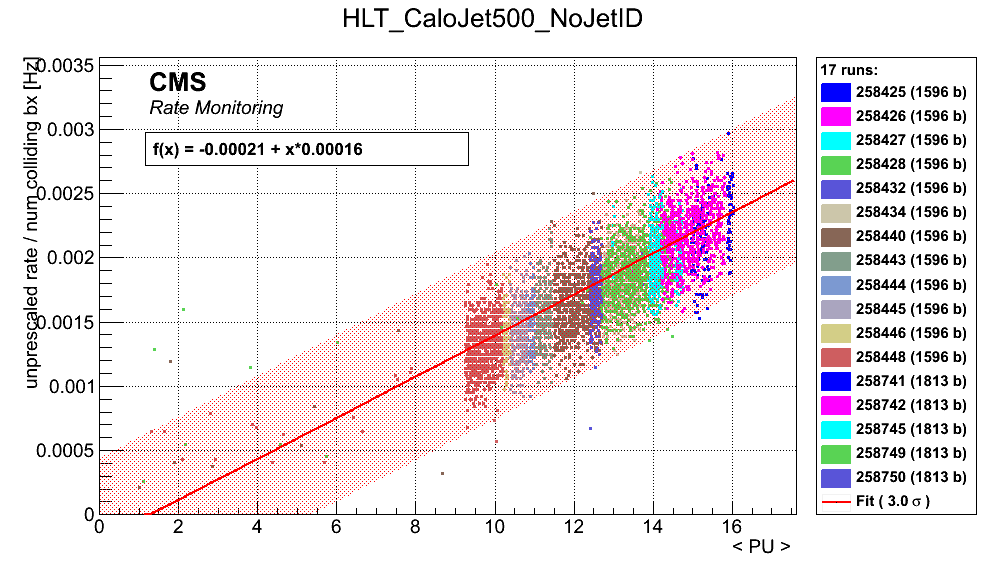
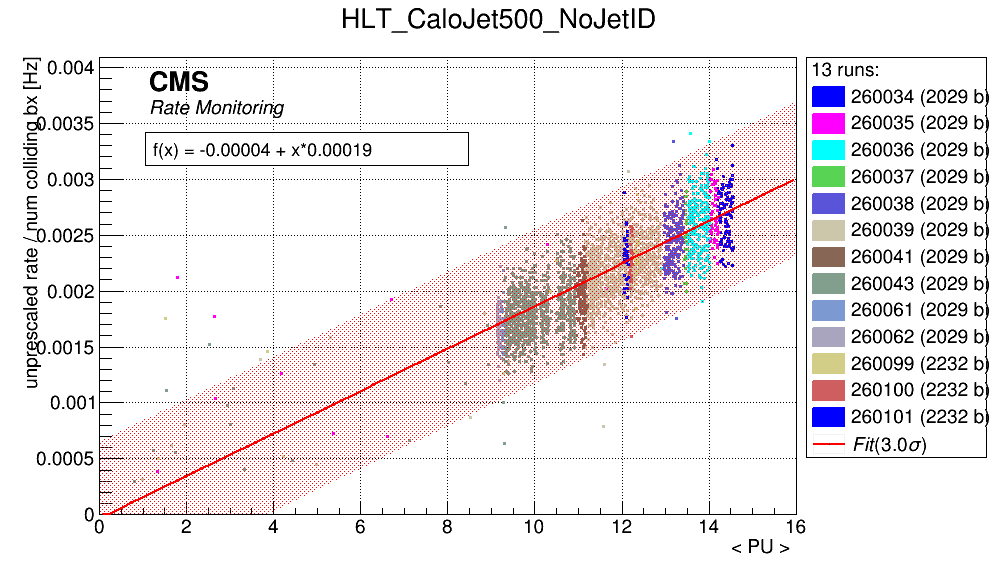
udpating fits and changing thresholds to 0T mode

diff --git a/Fits/2015/plots/index.html b/Fits/2015/plots/index.html
@@ -1,37 +1,33 @@
 <!DOCTYPE html>
 <html>
 <style>.image { float:right; margin: 5px; clear:justify; font-size: 6px; font-family: Verdana, Arial, sans-serif; text-align: center;}</style>
-<div class=image><a href='HLT_Mu23_TrkIsoVVL_Ele12_CaloIdL_TrackIdL_IsoVL.png'><img width=398 height=229 border=0 src='HLT_Mu23_TrkIsoVVL_Ele12_CaloIdL_TrackIdL_IsoVL.png'></a><div style='width:398px'>HLT_Mu23_TrkIsoVVL_Ele12_CaloIdL_TrackIdL_IsoVL</div></div>
-<div class=image><a href='HLT_QuadJet45_TripleBTagCSV0p67.png'><img width=398 height=229 border=0 src='HLT_QuadJet45_TripleBTagCSV0p67.png'></a><div style='width:398px'>HLT_QuadJet45_TripleBTagCSV0p67</div></div>
 <div class=image><a href='HLT_CaloJet500_NoJetID.png'><img width=398 height=229 border=0 src='HLT_CaloJet500_NoJetID.png'></a><div style='width:398px'>HLT_CaloJet500_NoJetID</div></div>
-<div class=image><a href='HLT_PFJet450.png'><img width=398 height=229 border=0 src='HLT_PFJet450.png'></a><div style='width:398px'>HLT_PFJet450</div></div>
-<div class=image><a href='HLT_Photon175.png'><img width=398 height=229 border=0 src='HLT_Photon175.png'></a><div style='width:398px'>HLT_Photon175</div></div>
+<div class=image><a href='HLT_DiSC30_18_EIso_AND_HE_Mass70.png'><img width=398 height=229 border=0 src='HLT_DiSC30_18_EIso_AND_HE_Mass70.png'></a><div style='width:398px'>HLT_DiSC30_18_EIso_AND_HE_Mass70</div></div>
+<div class=image><a href='HLT_DoubleEle25_CaloIdL_GsfTrkIdVL.png'><img width=398 height=229 border=0 src='HLT_DoubleEle25_CaloIdL_GsfTrkIdVL.png'></a><div style='width:398px'>HLT_DoubleEle25_CaloIdL_GsfTrkIdVL</div></div>
 <div class=image><a href='HLT_DoubleEle33_CaloIdL_GsfTrkIdVL.png'><img width=398 height=229 border=0 src='HLT_DoubleEle33_CaloIdL_GsfTrkIdVL.png'></a><div style='width:398px'>HLT_DoubleEle33_CaloIdL_GsfTrkIdVL</div></div>
-<div class=image><a href='HLT_MET250.png'><img width=398 height=229 border=0 src='HLT_MET250.png'></a><div style='width:398px'>HLT_MET250</div></div>
-<div class=image><a href='HLT_Mu17_TrkIsoVVL_Mu8_TrkIsoVVL_DZ.png'><img width=398 height=229 border=0 src='HLT_Mu17_TrkIsoVVL_Mu8_TrkIsoVVL_DZ.png'></a><div style='width:398px'>HLT_Mu17_TrkIsoVVL_Mu8_TrkIsoVVL_DZ</div></div>
-<div class=image><a href='HLT_PFMET170_NoiseCleaned.png'><img width=398 height=229 border=0 src='HLT_PFMET170_NoiseCleaned.png'></a><div style='width:398px'>HLT_PFMET170_NoiseCleaned</div></div>
+<div class=image><a href='HLT_DoublePhoton40.png'><img width=398 height=229 border=0 src='HLT_DoublePhoton40.png'></a><div style='width:398px'>HLT_DoublePhoton40</div></div>
 <div class=image><a href='HLT_Ele105_CaloIdVT_GsfTrkIdT.png'><img width=398 height=229 border=0 src='HLT_Ele105_CaloIdVT_GsfTrkIdT.png'></a><div style='width:398px'>HLT_Ele105_CaloIdVT_GsfTrkIdT</div></div>
-<div class=image><a href='HLT_Photon36_R9Id85_OR_CaloId24b40e_Iso50T80L_Photon22_AND_HE10_R9Id65_Eta2_Mass15.png'><img width=398 height=229 border=0 src='HLT_Photon36_R9Id85_OR_CaloId24b40e_Iso50T80L_Photon22_AND_HE10_R9Id65_Eta2_Mass15.png'></a><div style='width:398px'>HLT_Photon36_R9Id85_OR_CaloId24b40e_Iso50T80L_Photon22_AND_HE10_R9Id65_Eta2_Mass15</div></div>
-<div class=image><a href='HLT_PFMET120_PFMHT120_IDTight.png'><img width=398 height=229 border=0 src='HLT_PFMET120_PFMHT120_IDTight.png'></a><div style='width:398px'>HLT_PFMET120_PFMHT120_IDTight</div></div>
-<div class=image><a href='HLT_PFHT800.png'><img width=398 height=229 border=0 src='HLT_PFHT800.png'></a><div style='width:398px'>HLT_PFHT800</div></div>
-<div class=image><a href='HLT_DoubleMediumIsoPFTau35_Trk1_eta2p1_Reg.png'><img width=398 height=229 border=0 src='HLT_DoubleMediumIsoPFTau35_Trk1_eta2p1_Reg.png'></a><div style='width:398px'>HLT_DoubleMediumIsoPFTau35_Trk1_eta2p1_Reg</div></div>
-<div class=image><a href='HLT_Mu45_eta2p1.png'><img width=398 height=229 border=0 src='HLT_Mu45_eta2p1.png'></a><div style='width:398px'>HLT_Mu45_eta2p1</div></div>
-<div class=image><a href='HLT_AK8DiPFJet250_200_TrimMass30_BTagCSV0p45.png'><img width=398 height=229 border=0 src='HLT_AK8DiPFJet250_200_TrimMass30_BTagCSV0p45.png'></a><div style='width:398px'>HLT_AK8DiPFJet250_200_TrimMass30_BTagCSV0p45</div></div>
-<div class=image><a href='HLT_HT650.png'><img width=398 height=229 border=0 src='HLT_HT650.png'></a><div style='width:398px'>HLT_HT650</div></div>
-<div class=image><a href='HLT_IsoMu27.png'><img width=398 height=229 border=0 src='HLT_IsoMu27.png'></a><div style='width:398px'>HLT_IsoMu27</div></div>
-<div class=image><a href='HLT_Ele27_WPLoose_Gsf.png'><img width=398 height=229 border=0 src='HLT_Ele27_WPLoose_Gsf.png'></a><div style='width:398px'>HLT_Ele27_WPLoose_Gsf</div></div>
-<div class=image><a href='L1_SingleJet200.png'><img width=398 height=229 border=0 src='L1_SingleJet200.png'></a><div style='width:398px'>L1_SingleJet200</div></div>
-<div class=image><a href='L1_DoubleJetC100.png'><img width=398 height=229 border=0 src='L1_DoubleJetC100.png'></a><div style='width:398px'>L1_DoubleJetC100</div></div>
+<div class=image><a href='HLT_Ele23_WPLoose_Gsf.png'><img width=398 height=229 border=0 src='HLT_Ele23_WPLoose_Gsf.png'></a><div style='width:398px'>HLT_Ele23_WPLoose_Gsf</div></div>
+<div class=image><a href='HLT_Ele32_WPLoose_Gsf.png'><img width=398 height=229 border=0 src='HLT_Ele32_WPLoose_Gsf.png'></a><div style='width:398px'>HLT_Ele32_WPLoose_Gsf</div></div>
+<div class=image><a href='HLT_HT575.png'><img width=398 height=229 border=0 src='HLT_HT575.png'></a><div style='width:398px'>HLT_HT575</div></div>
+<div class=image><a href='HLT_IsoMu20.png'><img width=398 height=229 border=0 src='HLT_IsoMu20.png'></a><div style='width:398px'>HLT_IsoMu20</div></div>
+<div class=image><a href='HLT_MET100_JetIdCleaned.png'><img width=398 height=229 border=0 src='HLT_MET100_JetIdCleaned.png'></a><div style='width:398px'>HLT_MET100_JetIdCleaned</div></div>
+<div class=image><a href='HLT_MET250.png'><img width=398 height=229 border=0 src='HLT_MET250.png'></a><div style='width:398px'>HLT_MET250</div></div>
+<div class=image><a href='HLT_Mu20.png'><img width=398 height=229 border=0 src='HLT_Mu20.png'></a><div style='width:398px'>HLT_Mu20</div></div>
+<div class=image><a href='HLT_Mu33NoFiltersNoVtxDisplaced_DisplacedJet50_Loose.png'><img width=398 height=229 border=0 src='HLT_Mu33NoFiltersNoVtxDisplaced_DisplacedJet50_Loose.png'></a><div style='width:398px'>HLT_Mu33NoFiltersNoVtxDisplaced_DisplacedJet50_Loose</div></div>
+<div class=image><a href='HLT_PFMET170_NoiseCleaned.png'><img width=398 height=229 border=0 src='HLT_PFMET170_NoiseCleaned.png'></a><div style='width:398px'>HLT_PFMET170_NoiseCleaned</div></div>
+<div class=image><a href='HLT_Photon175.png'><img width=398 height=229 border=0 src='HLT_Photon175.png'></a><div style='width:398px'>HLT_Photon175</div></div>
 <div class=image><a href='L1_ETM70.png'><img width=398 height=229 border=0 src='L1_ETM70.png'></a><div style='width:398px'>L1_ETM70</div></div>
-<div class=image><a href='L1_SingleEG40.png'><img width=398 height=229 border=0 src='L1_SingleEG40.png'></a><div style='width:398px'>L1_SingleEG40</div></div>
 <div class=image><a href='L1_HTT175.png'><img width=398 height=229 border=0 src='L1_HTT175.png'></a><div style='width:398px'>L1_HTT175</div></div>
-<div class=image><a href='L1_SingleJet128.png'><img width=398 height=229 border=0 src='L1_SingleJet128.png'></a><div style='width:398px'>L1_SingleJet128</div></div>
-<div class=image><a href='L1_SingleMu20er.png'><img width=398 height=229 border=0 src='L1_SingleMu20er.png'></a><div style='width:398px'>L1_SingleMu20er</div></div>
-<div class=image><a href='L1_SingleIsoEG30er.png'><img width=398 height=229 border=0 src='L1_SingleIsoEG30er.png'></a><div style='width:398px'>L1_SingleIsoEG30er</div></div>
-<div class=image><a href='L1_SingleMu25.png'><img width=398 height=229 border=0 src='L1_SingleMu25.png'></a><div style='width:398px'>L1_SingleMu25</div></div>
-<div class=image><a href='L1_SingleEG30.png'><img width=398 height=229 border=0 src='L1_SingleEG30.png'></a><div style='width:398px'>L1_SingleEG30</div></div>
-<div class=image><a href='L1_SingleMu16.png'><img width=398 height=229 border=0 src='L1_SingleMu16.png'></a><div style='width:398px'>L1_SingleMu16</div></div>
-<div class=image><a href='L1_SingleIsoEG18er.png'><img width=398 height=229 border=0 src='L1_SingleIsoEG18er.png'></a><div style='width:398px'>L1_SingleIsoEG18er</div></div>
 <div class=image><a href='L1_SingleEG20.png'><img width=398 height=229 border=0 src='L1_SingleEG20.png'></a><div style='width:398px'>L1_SingleEG20</div></div>
+<div class=image><a href='L1_SingleEG30.png'><img width=398 height=229 border=0 src='L1_SingleEG30.png'></a><div style='width:398px'>L1_SingleEG30</div></div>
+<div class=image><a href='L1_SingleEG40.png'><img width=398 height=229 border=0 src='L1_SingleEG40.png'></a><div style='width:398px'>L1_SingleEG40</div></div>
+<div class=image><a href='L1_SingleEG5.png'><img width=398 height=229 border=0 src='L1_SingleEG5.png'></a><div style='width:398px'>L1_SingleEG5</div></div>
+<div class=image><a href='L1_SingleIsoEG18er.png'><img width=398 height=229 border=0 src='L1_SingleIsoEG18er.png'></a><div style='width:398px'>L1_SingleIsoEG18er</div></div>
+<div class=image><a href='L1_SingleIsoEG30er.png'><img width=398 height=229 border=0 src='L1_SingleIsoEG30er.png'></a><div style='width:398px'>L1_SingleIsoEG30er</div></div>
+<div class=image><a href='L1_SingleJet128.png'><img width=398 height=229 border=0 src='L1_SingleJet128.png'></a><div style='width:398px'>L1_SingleJet128</div></div>
+<div class=image><a href='L1_SingleJet200.png'><img width=398 height=229 border=0 src='L1_SingleJet200.png'></a><div style='width:398px'>L1_SingleJet200</div></div>
 <div class=image><a href='L1_SingleJet68.png'><img width=398 height=229 border=0 src='L1_SingleJet68.png'></a><div style='width:398px'>L1_SingleJet68</div></div>
+<div class=image><a href='L1_SingleMu16.png'><img width=398 height=229 border=0 src='L1_SingleMu16.png'></a><div style='width:398px'>L1_SingleMu16</div></div>
+<div class=image><a href='L1_SingleMu25.png'><img width=398 height=229 border=0 src='L1_SingleMu25.png'></a><div style='width:398px'>L1_SingleMu25</div></div>
 </html>

diff --git a/ShiftMonitorNCR.py b/ShiftMonitorNCR.py
@@ -106,7 +106,7 @@ class ShiftMonitor:
         self.usePerDiff = False         # Whether we should identify bad triggers by perc diff or deviatoin
         self.sortRates = True           # Whether we should sort triggers by their rates
         self.maxHLTRate = 250           # The maximum prescaled rate we allow an HLT Trigger to have
-        self.maxL1Rate = 30000          # The maximum prescaled rate we allow an L1 Trigger to have
+        self.maxL1Rate = 60000          # The maximum prescaled rate we allow an L1 Trigger to have
         # Other options
         self.quiet = False              # Prints fewer messages in this mode
         self.noColors = False           # Special formatting for if we want to dump the table to a file
